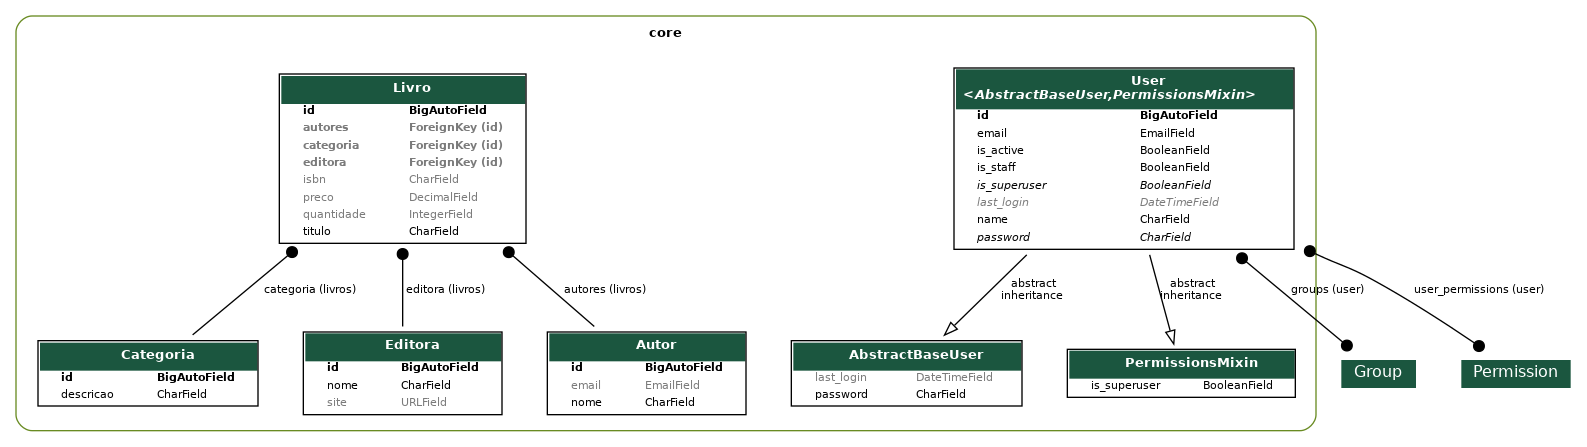
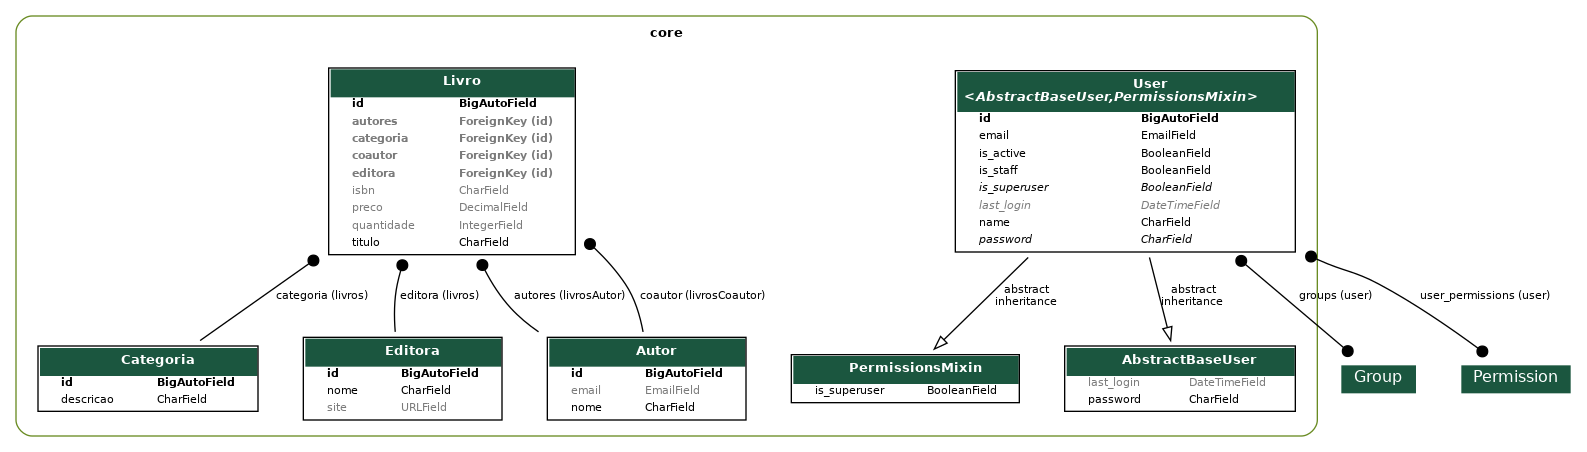
Criando relacionamentos de livro com coAutor

diff --git a/core/migrations/0012_livro_coautor_alter_livro_autores.py b/core/migrations/0012_livro_coautor_alter_livro_autores.py
@@ -1,0 +1,36 @@
+# Generated by Django 5.0.2 on 2024-08-02 11:43
+
+import django.db.models.deletion
+from django.db import migrations, models
+
+
+class Migration(migrations.Migration):
+
+    dependencies = [
+        ("core", "0011_livro_editora_alter_livro_autores_and_more"),
+    ]
+
+    operations = [
+        migrations.AddField(
+            model_name="livro",
+            name="coautor",
+            field=models.ForeignKey(
+                blank=True,
+                null=True,
+                on_delete=django.db.models.deletion.PROTECT,
+                related_name="livrosCoautor",
+                to="core.autor",
+            ),
+        ),
+        migrations.AlterField(
+            model_name="livro",
+            name="autores",
+            field=models.ForeignKey(
+                blank=True,
+                null=True,
+                on_delete=django.db.models.deletion.PROTECT,
+                related_name="livrosAutor",
+                to="core.autor",
+            ),
+        ),
+    ]

diff --git a/core/models/livro.py b/core/models/livro.py
@@ -10,9 +10,10 @@ class Livro(models.Model):
     isbn = models.CharField(max_length=32, null=True, blank=True)
     quantidade = models.IntegerField(default=0, blank=True, null=True)
     preco = models.DecimalField(max_digits=7, decimal_places=2, default=0, blank=True, null=True)
-    autores = models.ForeignKey(Autor, on_delete=models.PROTECT, related_name="livros", blank=True, null=True)
     categoria = models.ForeignKey(Categoria, on_delete=models.PROTECT, related_name="livros", blank=True, null=True)
     editora = models.ForeignKey(Editora, on_delete=models.PROTECT, related_name="livros", blank=True, null=True)
+    autores = models.ForeignKey(Autor, on_delete=models.PROTECT, related_name="livrosAutor", blank=True, null=True) #livro com 1 autor
+    coautor = models.ForeignKey(Autor, on_delete=models.PROTECT, related_name="livrosCoautor", blank=True, null=True) #livro com 1 coautor
 
     def __str__(self):
         return f"({self.id}) {self.titulo} ({self.quantidade})"

diff --git a/core/models/categoria.py b/core/models/categoria.py
@@ -5,7 +5,7 @@ class Categoria(models.Model):
     descricao = models.CharField(max_length=100)
 
     def __str__(self):
-        return self.descricao
+        return f"({self.id}) {self.descricao}"
 
     class Meta:
         verbose_name_plural = "Categorias"
